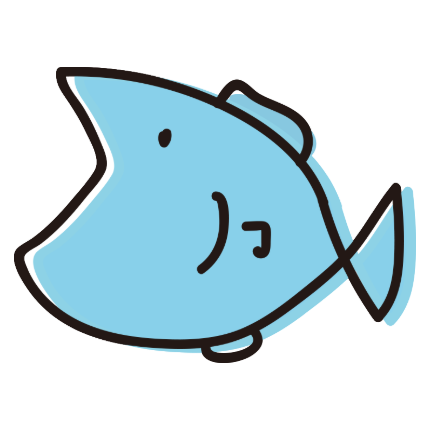
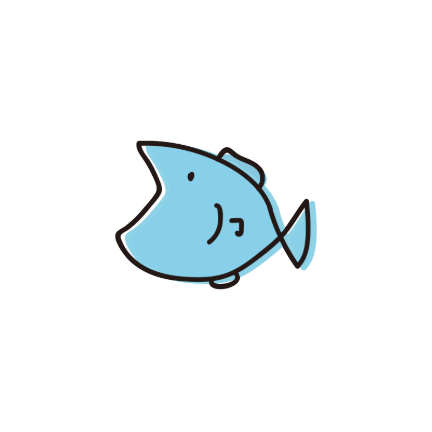
アイコンのサイズを修正 (+3 squashed commits) Squashed commits: [b79c913] a [1ac3a50] Androidアイコンを設定 [5a0b187] アイコン画像生成

diff --git a/lib/main.dart b/lib/main.dart
@@ -51,6 +51,9 @@ class _MyHomePageState extends State<MyHomePage> {
         child: Column(
           mainAxisAlignment: MainAxisAlignment.center,
           children: <Widget>[
+            const Text(
+              String.fromEnvironment('FLAVOR'),
+            ),
             Text(
               AppLocalizations.of(context)!.helloWorld,
             ),
